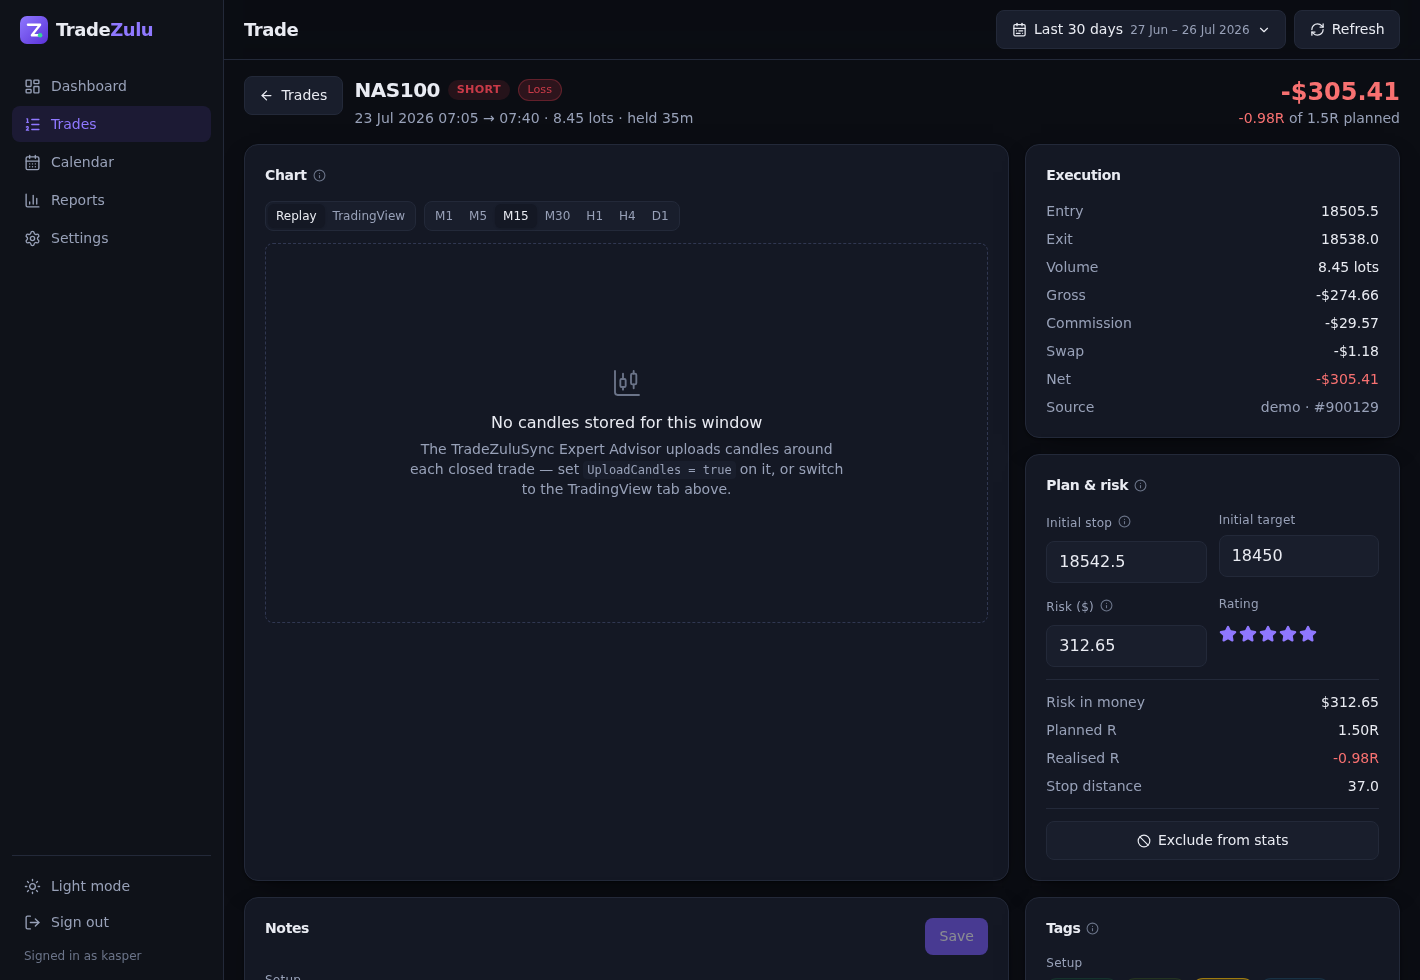
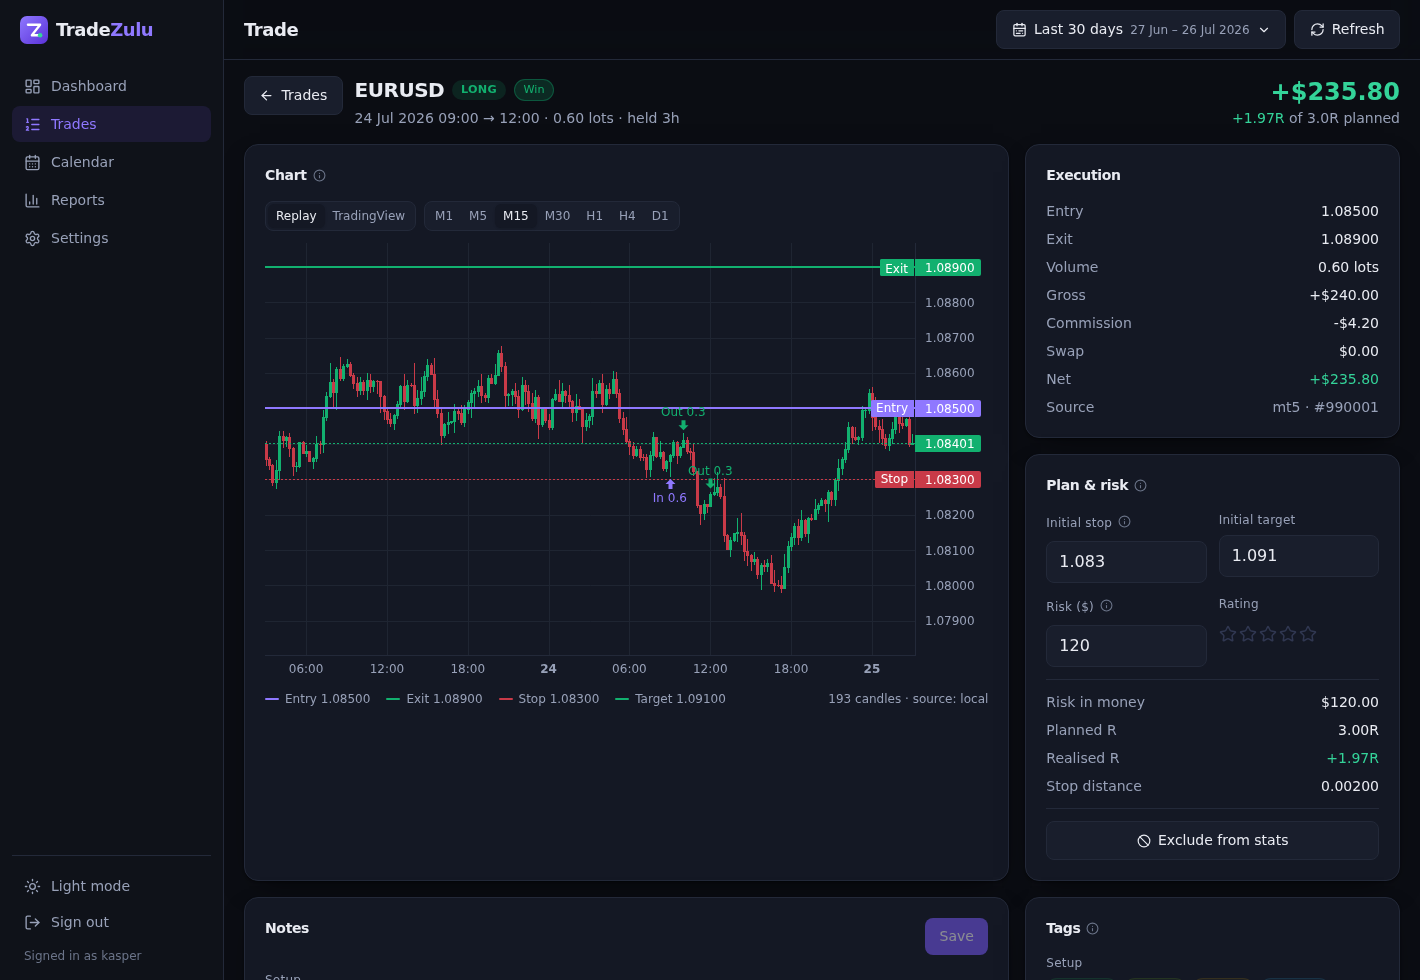
fix(charts): render the trade replay and clean up derived money values
- the candle endpoint required a symbol even when given a trade_id, which is
  exactly how the replay chart calls it
- the chart was created in an effect that ran while the loading skeleton was
  still mounted, so lightweight-charts had no element to attach to and the
  canvas never appeared
- price lines and markers are now cleared before redrawing, so switching
  timeframe no longer stacks a second set on top of the first
- risk and net P&L are rounded to cents, so the risk field shows 120 rather
  than 120.00000000000001

Adds nine tests covering the candle endpoint, including the trade_id-only
call the UI makes.

diff --git a/frontend/src/components/TradeChart.tsx b/frontend/src/components/TradeChart.tsx
@@ -21,7 +21,13 @@ import {
   createChart,
   createSeriesMarkers,
 } from 'lightweight-charts'
-import type { IChartApi, ISeriesApi, Time } from 'lightweight-charts'
+import type {
+  IChartApi,
+  IPriceLine,
+  ISeriesApi,
+  ISeriesMarkersPluginApi,
+  Time,
+} from 'lightweight-charts'
 import { CandlestickChart, ExternalLink } from 'lucide-react'
 import { api } from '../lib/api'
 import { useSettings } from '../lib/settings'
@@ -81,6 +87,8 @@ function LocalReplay({ trade, timeframe }: { trade: TradeDetail; timeframe: stri
   const container = useRef<HTMLDivElement>(null)
   const chartRef = useRef<IChartApi | null>(null)
   const seriesRef = useRef<ISeriesApi<'Candlestick'> | null>(null)
+  const priceLines = useRef<IPriceLine[]>([])
+  const markers = useRef<ISeriesMarkersPluginApi<Time> | null>(null)
 
   const { data, isLoading, isError } = useQuery({
     queryKey: ['candles', trade.id, timeframe],
@@ -150,6 +158,10 @@ function LocalReplay({ trade, timeframe }: { trade: TradeDetail; timeframe: stri
     const loss = token('--tz-loss', '#c93a48')
     const accent = token('--color-zulu-400', '#8f78ff')
 
+    for (const line of priceLines.current) series.removePriceLine(line)
+    priceLines.current = []
+    markers.current?.setMarkers([])
+
     series.setData(
       data.candles.map((candle) => ({
         time: (Date.parse(candle.time) / 1000) as Time,
@@ -161,47 +173,47 @@ function LocalReplay({ trade, timeframe }: { trade: TradeDetail; timeframe: stri
     )
 
     // Entry, exit, stop and target as price lines.
-    series.createPriceLine({
+    priceLines.current.push(series.createPriceLine({
       price: trade.entry_price,
       color: accent,
       lineWidth: 2,
       lineStyle: LineStyle.Solid,
       axisLabelVisible: true,
       title: 'Entry',
-    })
+    }))
     if (trade.exit_price !== null) {
-      series.createPriceLine({
+      priceLines.current.push(series.createPriceLine({
         price: trade.exit_price,
         color: trade.net_pnl >= 0 ? gain : loss,
         lineWidth: 2,
         lineStyle: LineStyle.Solid,
         axisLabelVisible: true,
         title: 'Exit',
-      })
+      }))
     }
     if (trade.initial_stop) {
-      series.createPriceLine({
+      priceLines.current.push(series.createPriceLine({
         price: trade.initial_stop,
         color: loss,
         lineWidth: 1,
         lineStyle: LineStyle.Dashed,
         axisLabelVisible: true,
         title: 'Stop',
-      })
+      }))
     }
     if (trade.initial_target) {
-      series.createPriceLine({
+      priceLines.current.push(series.createPriceLine({
         price: trade.initial_target,
         color: gain,
         lineWidth: 1,
         lineStyle: LineStyle.Dashed,
         axisLabelVisible: true,
         title: 'Target',
-      })
+      }))
     }
 
     // Every individual fill gets an arrow so scale-ins are visible.
-    createSeriesMarkers(
+    markers.current = createSeriesMarkers(
       series,
       trade.executions
         .map((execution) => ({
@@ -217,31 +229,36 @@ function LocalReplay({ trade, timeframe }: { trade: TradeDetail; timeframe: stri
     chart.timeScale().fitContent()
   }, [data, trade])
 
-  if (isLoading) return <Skeleton className="h-[380px]" />
-
-  if (isError || !data?.candles.length) {
-    return (
-      <div className="flex h-[380px] items-center justify-center rounded-lg border border-dashed border-[var(--tz-border-strong)]">
-        <EmptyState
-          icon={<CandlestickChart size={32} strokeWidth={1.4} />}
-          title="No candles stored for this window"
-          description={
-            <>
-              The TradeZuluSync Expert Advisor uploads candles around each closed trade — set
-              <code className="mx-1 rounded bg-[var(--tz-surface-2)] px-1 py-0.5 text-xs">
-                UploadCandles = true
-              </code>
-              on it, or switch to the TradingView tab above.
-            </>
-          }
-        />
-      </div>
-    )
-  }
+  const hasCandles = Boolean(data?.candles.length)
 
   return (
     <div>
-      <div ref={container} className="h-[380px] w-full" />
+      <div className="relative h-[440px] w-full">
+        {/* Always mounted: lightweight-charts needs a live element to attach
+            to, and the states below sit on top of it rather than replacing it. */}
+        <div ref={container} className="h-full w-full" />
+
+        {isLoading && <Skeleton className="absolute inset-0" />}
+
+        {!isLoading && (isError || !hasCandles) && (
+          <div className="absolute inset-0 flex items-center justify-center rounded-lg border border-dashed border-[var(--tz-border-strong)] bg-[var(--tz-surface)]">
+            <EmptyState
+              icon={<CandlestickChart size={32} strokeWidth={1.4} />}
+              title="No candles stored for this window"
+              description={
+                <>
+                  The TradeZuluSync Expert Advisor uploads candles around each closed trade — set
+                  <code className="mx-1 rounded bg-[var(--tz-surface-2)] px-1 py-0.5 text-xs">
+                    UploadCandles = true
+                  </code>
+                  on it, or switch to the TradingView tab above.
+                </>
+              }
+            />
+          </div>
+        )}
+      </div>
+
       <div className="mt-2 flex flex-wrap gap-x-4 gap-y-1 text-xs text-[var(--tz-text-muted)]">
         <Legend color="var(--color-zulu-400)" label={`Entry ${price(trade.entry_price, trade.digits)}`} />
         {trade.exit_price !== null && (
@@ -259,7 +276,11 @@ function LocalReplay({ trade, timeframe }: { trade: TradeDetail; timeframe: stri
             label={`Target ${price(trade.initial_target, trade.digits)}`}
           />
         )}
-        <span className="ml-auto">{data.candles.length} candles · source: {data.source}</span>
+        {hasCandles && (
+          <span className="ml-auto">
+            {data?.candles.length} candles · source: {data?.source}
+          </span>
+        )}
       </div>
     </div>
   )
@@ -322,7 +343,7 @@ function TradingViewChart({ trade, timeframe }: { trade: TradeDetail; timeframe:
 
   return (
     <div>
-      <div className="tradingview-widget-container h-[420px] w-full" ref={container} />
+      <div className="tradingview-widget-container h-[460px] w-full" ref={container} />
       <div className="mt-2 flex flex-wrap items-center gap-x-4 gap-y-1 text-xs text-[var(--tz-text-muted)]">
         <span>
           Entry {price(trade.entry_price, trade.digits)}

diff --git a/backend/tests/test_candles.py b/backend/tests/test_candles.py
@@ -1,0 +1,136 @@
+"""The candle endpoint that feeds the trade replay chart."""
+
+from __future__ import annotations
+
+from datetime import datetime, timedelta, timezone
+
+import pytest
+
+INGEST_HEADERS = {"X-API-Key": "test-ingest-token"}
+BASE = datetime(2026, 6, 1, 10, tzinfo=timezone.utc)
+
+
+def iso(dt: datetime) -> str:
+    return dt.isoformat()
+
+
+@pytest.fixture()
+def trade_with_candles(client, auth_client):
+    candles = [
+        {
+            "time": iso(BASE - timedelta(minutes=15 * (30 - index))),
+            "open": 1.1000 + index * 0.0001,
+            "high": 1.1005 + index * 0.0001,
+            "low": 1.0995 + index * 0.0001,
+            "close": 1.1002 + index * 0.0001,
+            "volume": 100 + index,
+        }
+        for index in range(60)
+    ]
+    payload = {
+        "account": {"login": "5000123", "server": "TestBroker"},
+        "deals": [
+            {
+                "ticket": 8001, "position_id": 8001, "symbol": "EURUSD", "type": 0,
+                "entry": 0, "volume": 1.0, "price": 1.1000, "time": iso(BASE),
+                "value_per_unit": 100_000, "sl": 1.0980, "digits": 5,
+            },
+            {
+                "ticket": 8002, "position_id": 8001, "symbol": "EURUSD", "type": 1,
+                "entry": 1, "volume": 1.0, "price": 1.1040, "profit": 400.0,
+                "time": iso(BASE + timedelta(hours=2)), "value_per_unit": 100_000,
+                "digits": 5,
+            },
+        ],
+        "candles": [{"symbol": "EURUSD", "timeframe": "M15", "candles": candles}],
+    }
+    response = client.post("/api/mt5/ingest", json=payload, headers=INGEST_HEADERS)
+    assert response.status_code == 200, response.text
+    assert response.json()["candles_stored"] == 60
+
+    trade_id = auth_client.get(
+        "/api/trades", params={"start": "2026-06-01", "end": "2026-06-02"}
+    ).json()["items"][0]["id"]
+    return auth_client, trade_id
+
+
+class TestCandles:
+    def test_by_trade_id_needs_no_symbol(self, trade_with_candles):
+        """This is exactly how the replay chart calls it."""
+        auth_client, trade_id = trade_with_candles
+        response = auth_client.get(
+            "/api/mt5/candles", params={"trade_id": trade_id, "timeframe": "M15"}
+        )
+        assert response.status_code == 200, response.text
+        body = response.json()
+        assert body["symbol"] == "EURUSD"
+        assert body["timeframe"] == "M15"
+        assert len(body["candles"]) > 0
+        assert body["candles"][0]["open"] > 0
+
+    def test_window_is_taken_from_the_trade(self, trade_with_candles):
+        auth_client, trade_id = trade_with_candles
+        candles = auth_client.get(
+            "/api/mt5/candles", params={"trade_id": trade_id}
+        ).json()["candles"]
+        times = [candle["time"] for candle in candles]
+        assert times == sorted(times)
+
+    def test_by_symbol_and_range(self, trade_with_candles):
+        auth_client, _ = trade_with_candles
+        response = auth_client.get(
+            "/api/mt5/candles",
+            params={
+                "symbol": "EURUSD",
+                "timeframe": "M15",
+                "start": "2026-05-31T00:00:00Z",
+                "end": "2026-06-02T00:00:00Z",
+            },
+        )
+        assert response.status_code == 200
+        assert len(response.json()["candles"]) == 60
+
+    def test_without_a_trade_or_symbol(self, auth_client):
+        assert auth_client.get("/api/mt5/candles").status_code == 400
+
+    def test_unknown_trade(self, auth_client):
+        assert auth_client.get("/api/mt5/candles", params={"trade_id": 99999}).status_code == 404
+
+    def test_unknown_symbol_returns_an_empty_series(self, auth_client):
+        response = auth_client.get("/api/mt5/candles", params={"symbol": "NOPE"})
+        assert response.status_code == 200
+        assert response.json()["candles"] == []
+
+    def test_candles_are_not_duplicated_on_resend(self, client, trade_with_candles):
+        auth_client, trade_id = trade_with_candles
+        before = len(
+            auth_client.get("/api/mt5/candles", params={"trade_id": trade_id}).json()["candles"]
+        )
+        client.post(
+            "/api/mt5/ingest",
+            json={
+                "account": {"login": "5000123", "server": "TestBroker"},
+                "deals": [],
+                "candles": [
+                    {
+                        "symbol": "EURUSD",
+                        "timeframe": "M15",
+                        "candles": [
+                            {
+                                "time": iso(BASE),
+                                "open": 1.1,
+                                "high": 1.1,
+                                "low": 1.1,
+                                "close": 1.1,
+                            }
+                        ],
+                    }
+                ],
+            },
+            headers=INGEST_HEADERS,
+        )
+        after = len(
+            auth_client.get("/api/mt5/candles", params={"trade_id": trade_id}).json()["candles"]
+        )
+        # That bar is already stored, so re-sending it changes nothing.
+        assert after == before

diff --git a/backend/app/services/aggregation.py b/backend/app/services/aggregation.py
@@ -260,10 +260,12 @@ def compute_derived(
     tz_name: str = "UTC",
 ) -> Trade:
     """Recompute net P&L, risk, R multiples, outcome and bucket date in place."""
-    trade.net_pnl = effective_net_pnl(trade, risk_cfg)
+    trade.net_pnl = round(effective_net_pnl(trade, risk_cfg), 2)
 
     risk_amount, _source = compute_risk_amount(trade, risk_cfg, account_size)
-    trade.risk_amount = risk_amount
+    # Money, so round it: floating point noise like 120.00000000000001 would
+    # otherwise end up in the risk field on the trade page.
+    trade.risk_amount = round(risk_amount, 2) if risk_amount is not None else None
 
     # Planned R needs both a stop and a target.
     if trade.initial_stop and trade.initial_target and trade.entry_price:
@@ -274,8 +276,8 @@ def compute_derived(
         trade.planned_r = None
 
     pnl_for_r = trade.net_pnl if risk_cfg.get("r_uses_net_pnl", True) else trade.gross_profit
-    if risk_amount and risk_amount > 0 and trade.closed_at is not None:
-        trade.realized_r = round(pnl_for_r / risk_amount, 4)
+    if trade.risk_amount and trade.risk_amount > 0 and trade.closed_at is not None:
+        trade.realized_r = round(pnl_for_r / trade.risk_amount, 4)
     else:
         trade.realized_r = None
 

diff --git a/backend/app/routers/mt5.py b/backend/app/routers/mt5.py
@@ -349,13 +349,17 @@ def get_candles(
     _user: CurrentUser,
     db: DbSession,
     config: AppConfig,
-    symbol: str,
+    symbol: str | None = None,
     timeframe: str = "M15",
     start: datetime | None = None,
     end: datetime | None = None,
     trade_id: int | None = None,
 ) -> CandleResponse:
-    """Candles for the chart replay, from our cache or the bridge if configured."""
+    """Candles for the chart replay, from our cache or the bridge if configured.
+
+    Either ``trade_id`` (which picks the symbol and the window from the trade)
+    or an explicit ``symbol`` is required.
+    """
     if trade_id:
         trade = db.get(Trade, trade_id)
         if trade is None:
@@ -366,6 +370,11 @@ def get_candles(
         after = int(config["charts"].get("candles_after", 60))
         start = trade.opened_at - timedelta(seconds=span * before)
         end = (trade.closed_at or trade.opened_at) + timedelta(seconds=span * after)
+
+    if not symbol:
+        raise HTTPException(
+            status.HTTP_400_BAD_REQUEST, "Provide either a trade_id or a symbol"
+        )
 
     if start is None or end is None:
         end = end or datetime.now(timezone.utc).replace(tzinfo=None)
